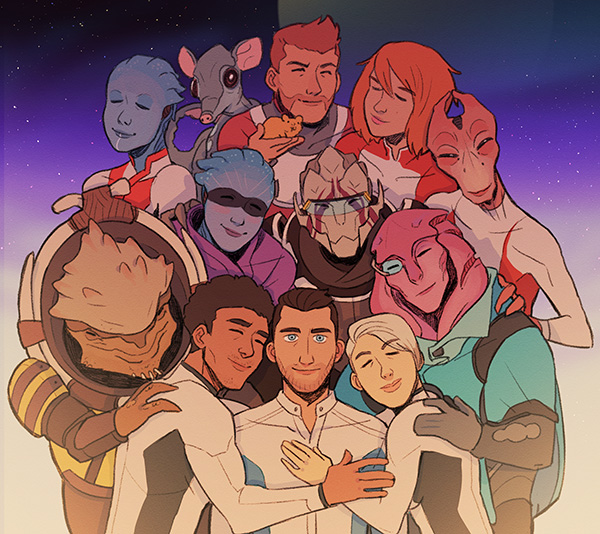
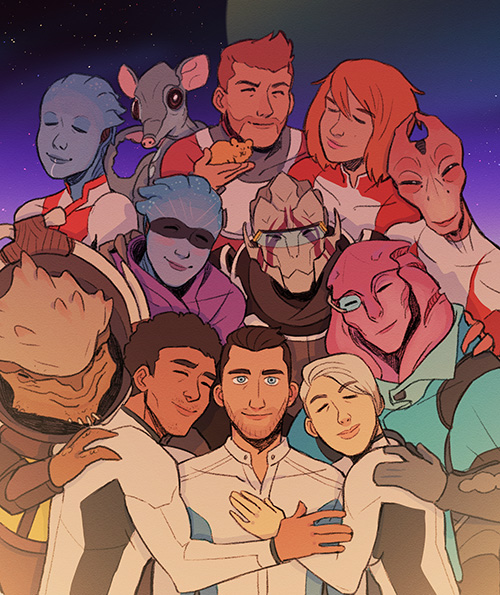
crop some images

diff --git a/style.css b/style.css
@@ -212,12 +212,10 @@ img.tile-inner {
 
 .tile-shop {
 	background-image: url('images/tile-shop.jpg');
-	background-size: 150%;
 }
 
 .tile-patreon {
 	background-image: url('images/tile-patreon.jpg');
-	background-size: 130%;
 	background-position: 50% 70%;
 }
 
